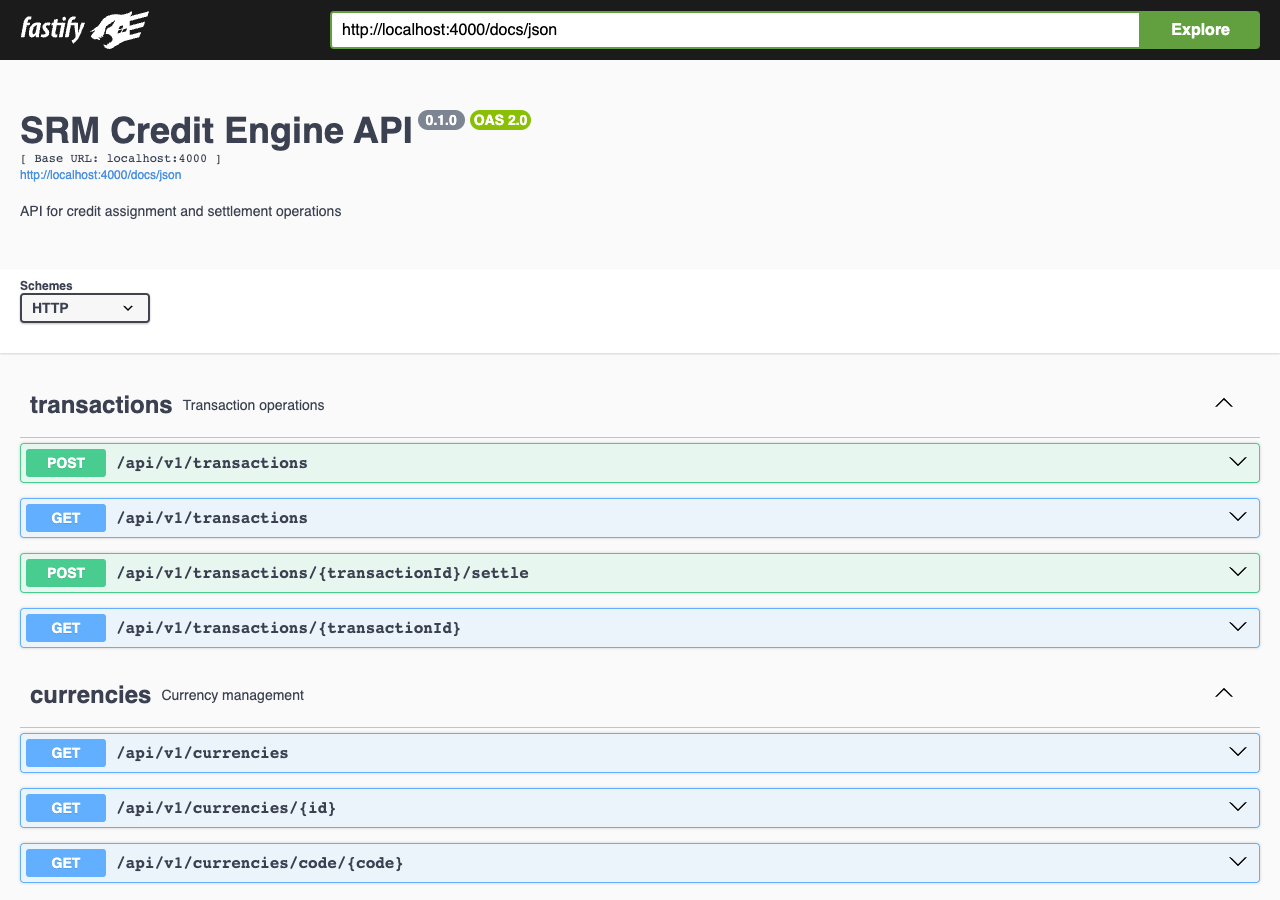
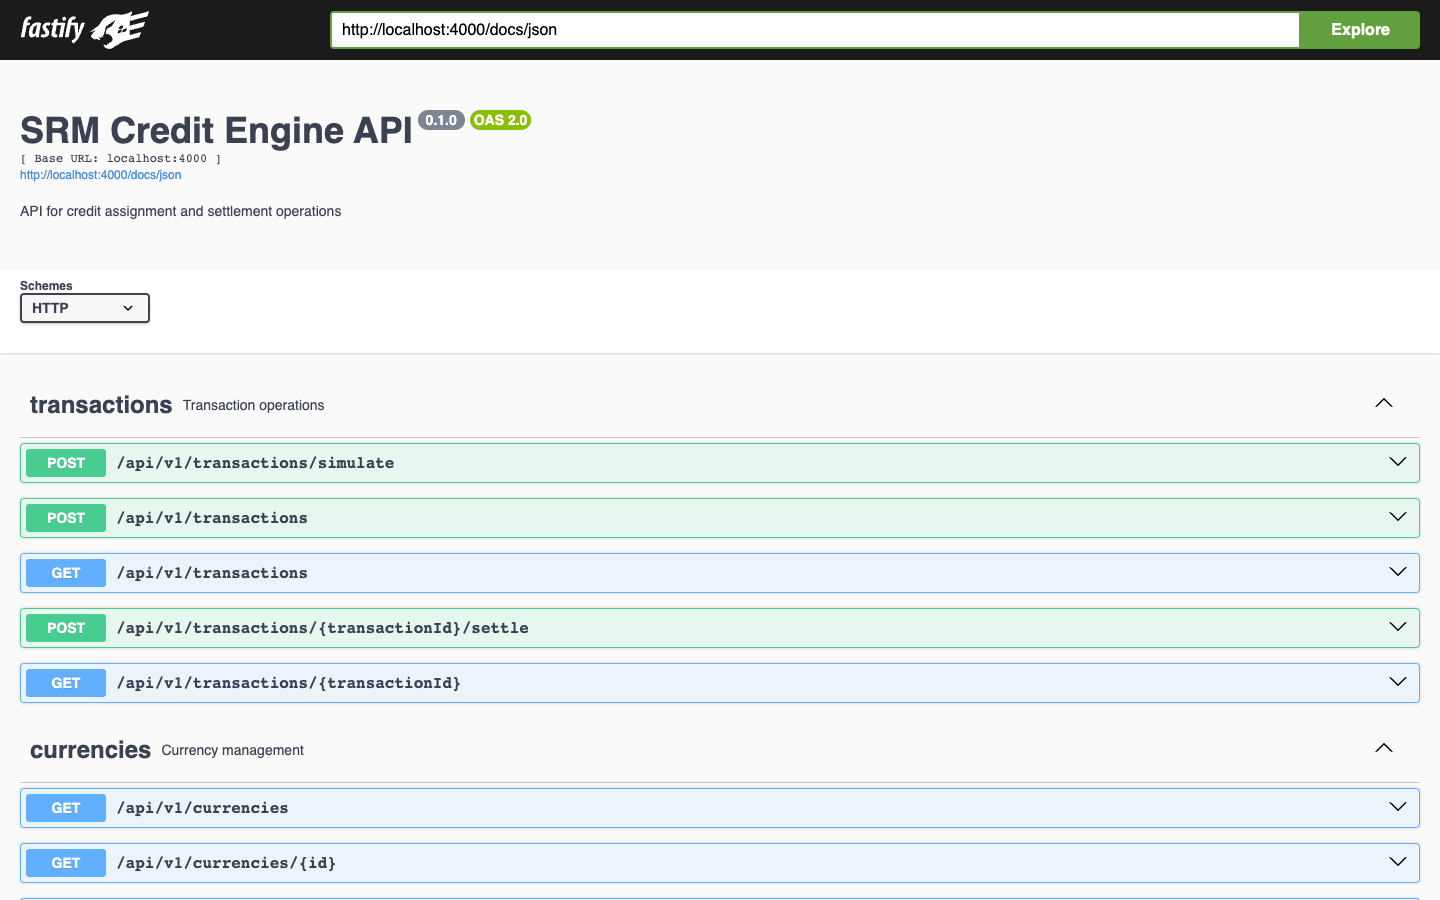
docs(screenshots): corrige prints do dashboard e swagger no README

diff --git a/apps/backend/src/server.ts b/apps/backend/src/server.ts
@@ -50,7 +50,13 @@ async function start() {
 
     // CORS configuration
     await server.register(cors, {
-      origin: process.env.ALLOWED_ORIGINS?.split(',') || ['http://localhost:3000'],
+      origin:
+        process.env.ALLOWED_ORIGINS?.split(',') || [
+          'http://localhost:3000',
+          'http://localhost:3001',
+          'http://localhost:3002',
+          'http://localhost:3003',
+        ],
       credentials: true,
     });
 